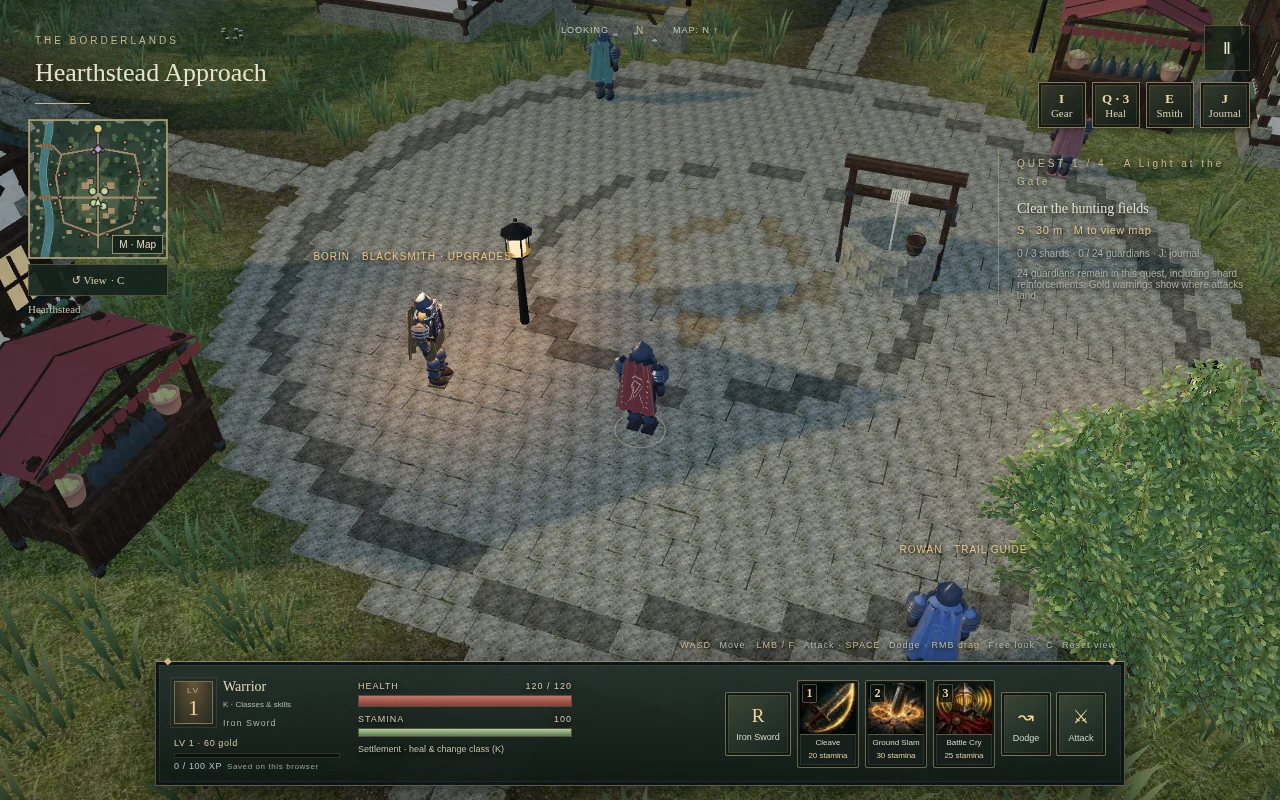
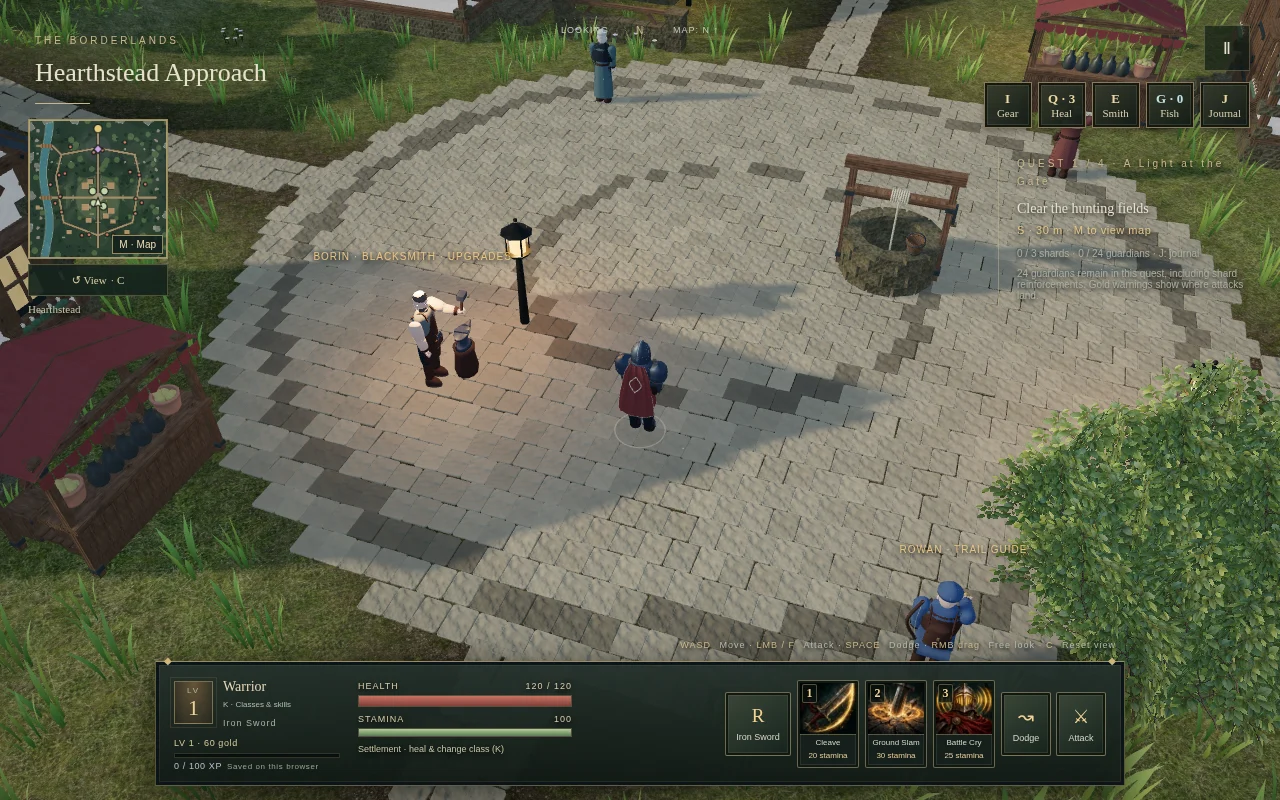
Document fishing, regional enemies, interiors and the brighter palette

diff --git a/README.md b/README.md
@@ -1,8 +1,8 @@
 # Shards of the Blighted March
 
-A single-player dark fantasy action RPG in your browser. Leave the safety of Hearthstead, hunt corrupted guardians, cleanse three ancient shards and confront the Fallen Warden.
+A single-player fantasy action RPG in your browser. Leave the safety of Hearthstead, hunt corrupted guardians, cleanse three ancient shards and confront the Fallen Warden.
 
-Choose **Warrior, Mage, Ninja or Dwarf**, each with three unique illustrated abilities. Explore four regions of settlements, forests, rivers, hills and coastline. Collect equipment, upgrade it at the forge, sell spare gear and find your way with the detailed regional atlas.
+Choose **Warrior, Mage, Ninja or Dwarf**, each with three unique illustrated abilities. Explore four sunlit regions of settlements, forests, rivers, hills and coastline, where wolves, charging boars, stone brutes and ashen archers guard the roads. Step into the inn and houses of each market, fish from riverbanks and piers, collect equipment, upgrade it at the forge, sell spare gear and find your way with the detailed regional atlas.
 
 Combat combines aimed attacks, weapon combos, stamina management and directional dodges. Travel between regions through physical portals. Progress saves automatically in the current browser; no account or multiplayer server is needed.
 
@@ -40,7 +40,8 @@ To play on a phone on the same trusted network, open `http://<computer-LAN-IP>:4
 | Aim / attack | Mouse / hold left click or F |
 | Dodge / skills | Space / 1, 2, 3 |
 | Switch weapon / heal | R / Q |
-| Interact / use a portal | E |
+| Interact / use a portal / fish near water | E |
+| Eat a caught fish | G |
 | Inventory / atlas / journal | I / M / J |
 | Choose or inspect a class | K |
 | Orbit / zoom / reset camera | Right-drag / mouse wheel / C |

diff --git a/docs/04-world-and-art.md b/docs/04-world-and-art.md
@@ -93,3 +93,11 @@ Checks cover role-specific geometry, heights, material colour preservation, inde
 - [Town cast constructor](../game/assets/marchfolk.js), [NPC loading and motion](../game/src/npc-actors.js), [enemy poses and grips](../game/src/enemy-motion.js), [cast checks](../tools/cast-detail.test.mjs) and [cast comparisons](../tools/cast-review.mjs).
 
 [Back to development stages](README.md)
+
+## A brighter borderland
+
+A later art pass replaced the dusk-blue palette with a clear afternoon. The aerial haze became a light sky blue instead of dark teal, regional hours moved from evening to mid-afternoon, and sunlight became warmer. Grass tints were made livelier and market paving received warm sandstone tones, so distance stays readable and the settlements feel inviting rather than gloomy.
+
+## Enterable market houses
+
+The two houses facing each market square became the Lantern Inn and Hearth House. Their collision keeps a real doorway, and stepping through it hides the exterior to reveal a cutaway room: floorboards and a rug, knee-high walls, a stone hearth with a flickering fire and furniture suited to each building. The static parts of each room are baked by material and a single hearth light follows the occupied room, so interiors add only a few draw calls. Their floors are excluded from grass, flower and scenery placement, and a nearby market stall moved slightly to leave space in front of one door.

diff --git a/docs/02-combat.md b/docs/02-combat.md
@@ -31,3 +31,9 @@ Solid scenery matters in combat as well as movement. Melee and ranged checks cov
 - [Dodge checks](../tools/dodge-encounter.test.mjs) and [character regression checks](../tools/actor-regression.mjs).
 
 [Back to development stages](README.md)
+
+## Regional enemies
+
+Thornwood and the Ashen Causeway field three enemies beyond wolves and raiders. Thornback Boars telegraph a narrow cone and then charge through it, carrying their body forward with the strike. Cairn Brutes are slow stone giants whose Cairn Slam fills a full circle, rewarding players who leave the ring rather than trade blows. Ashen Archers keep their distance: they loose only along a clear line of sight, back away from close pursuit and fire along a long, narrow warning that a sidestep avoids.
+
+The new kinds take over existing guardian IDs in later regions, so saved kills, rewards and quest counts stay valid without a migration. Their models load after the world is playable, keeping them off the start-up path of the first region, which fields only wolves and raiders. Campaign simulations with all four classes still complete every region.

diff --git a/docs/03-progression-and-campaign.md b/docs/03-progression-and-campaign.md
@@ -31,3 +31,7 @@ Validation rejects malformed save data, including inconsistent campaign state an
 - [Progression tests](../tools/progression.test.mjs), [campaign tests](../tools/campaign.test.mjs) and [service tests](../tools/services.test.mjs).
 
 [Back to development stages](README.md)
+
+## Shore fishing
+
+Rivers, the sea, the tarn, bridges and piers are fishing spots. Pressing E beside open water casts a line when no enemy is near; when the float dives the player has a short window to hook the fish, and a missed bite simply waits for the next. Moving, attacking, dodging or an approaching enemy reels the line in. Catches of three rarities — Silver Perch, Rainbow Trout and Golden Carp — go into a saved creel of up to twenty fish and are eaten with G to restore health, smallest first, on their own short cooldown. Older saves without a creel load unchanged.
